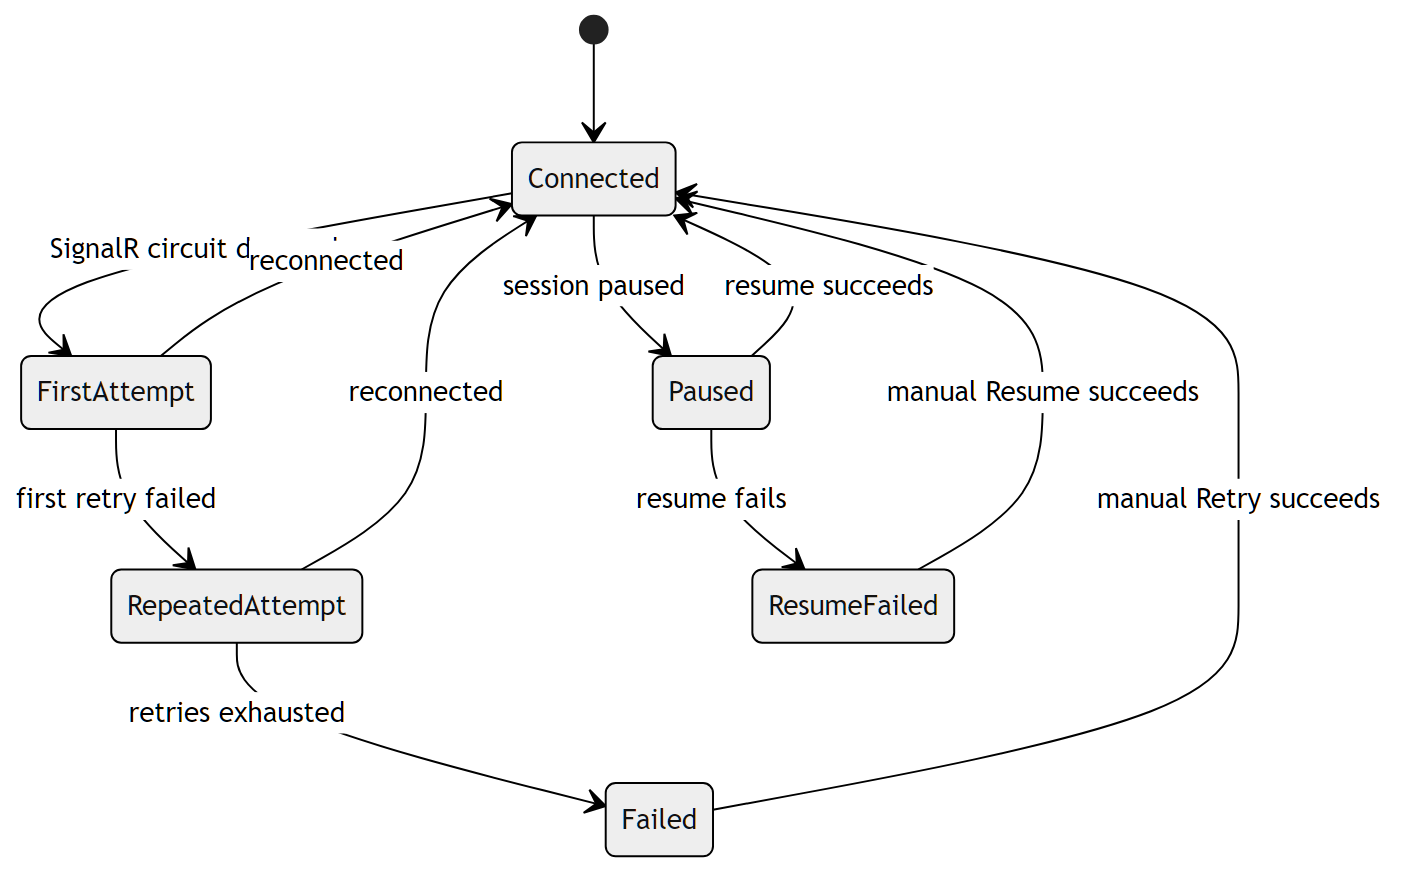
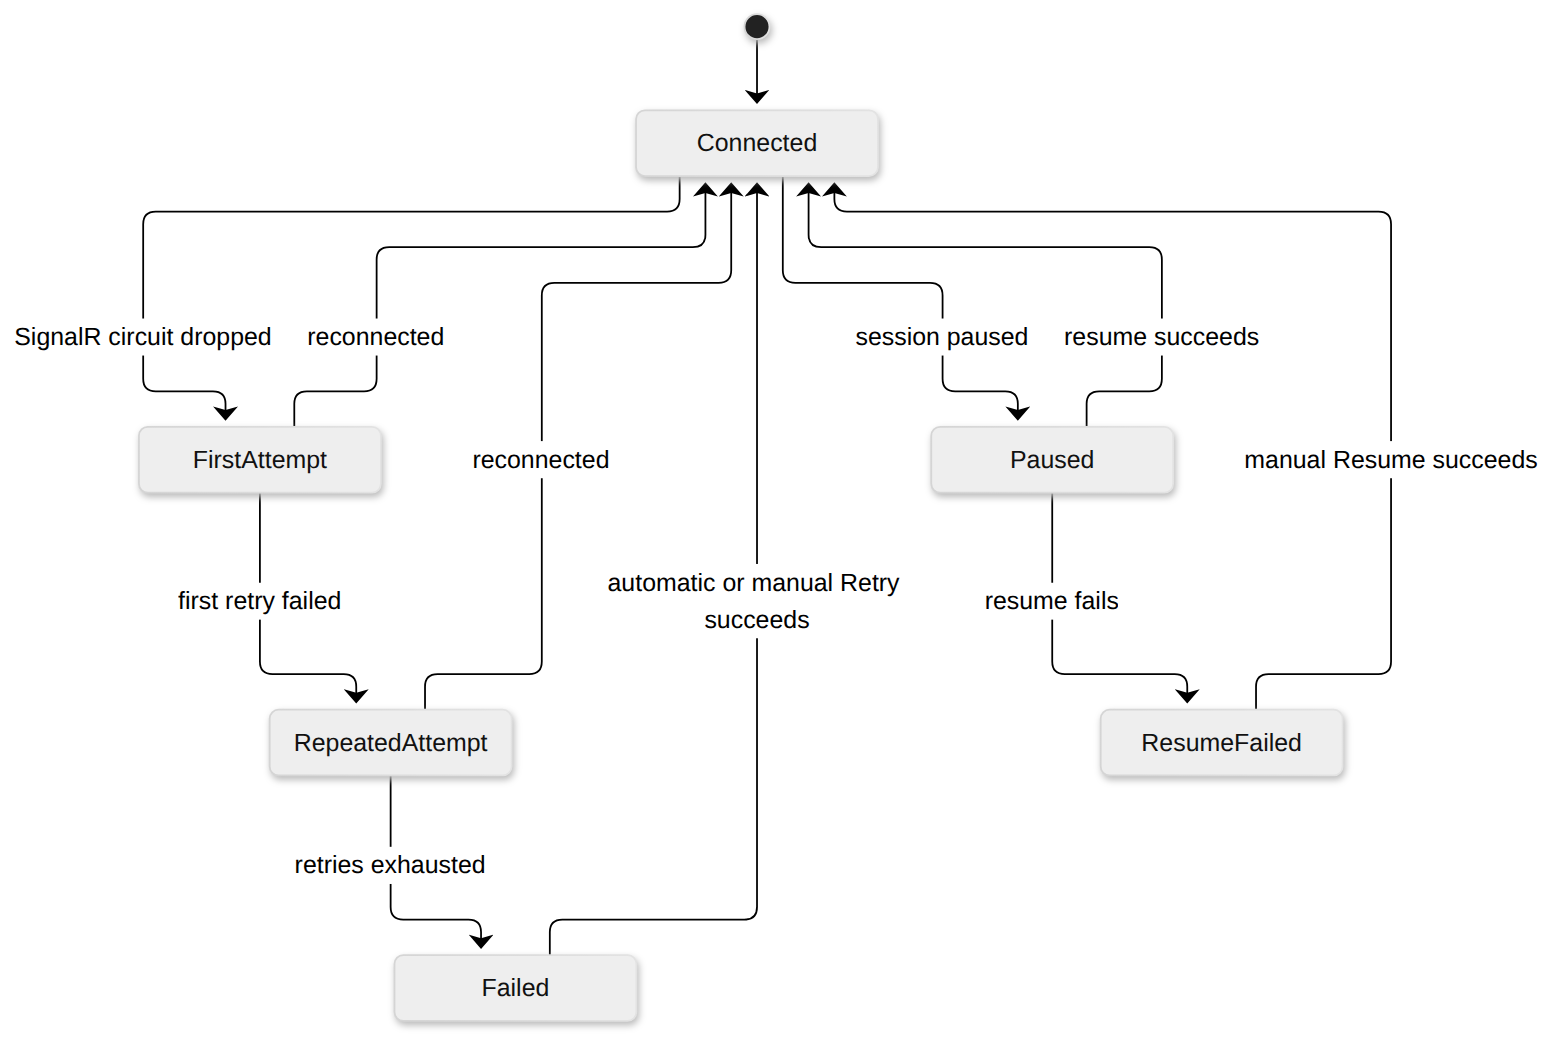
Fix automatic connection recovery and RTC asset caching (#386)
Failed or stalled dashboard startup currently leaves live updates and
controls unavailable until the user reloads. Continue recovery
automatically: reload failed startup when the authenticated panel is
ready, back off repeated failures from five seconds to one minute, and
allow pending startup one minute for direct/relay setup. After framework
reconnect attempts run out, keep retrying the existing circuit every
five seconds without overlapping manual attempts.

Load the RTC boot module through ASP.NET's fingerprinted asset URL,
matching the other application scripts. Update the connection messages,
admin handbook and reconnect diagram.

Validation:
- 51 browser startup, reconnect, restart and SDK tests pass.
- Handbook checks and `git diff --check` pass.
- Fresh sign-in on the deployed `/jack/` panel showed OB and completed
the live connection; the intermittent failure was not reproduced.
- Full .NET tests are blocked locally by missing `PluginSdk.Clustering`
types in the build dependencies.

These changes have not been deployed to the running panels.

diff --git a/Quasar/Components/Layout/ReconnectModal.razor.js b/Quasar/Components/Layout/ReconnectModal.razor.js
@@ -4,11 +4,19 @@ reconnectModal.addEventListener("components-reconnect-state-changed", handleReco
 reconnectModal.addEventListener("cancel", event => event.preventDefault());
 const connectionWarning = document.getElementById("quasar-connection-warning");
 const connectionMessage = document.getElementById("quasar-connection-warning-message");
+let reconnectState = "hide", workerRecovery, retryInFlight = false;
+let startupPending = true, startupRetryAt = Date.now() + 60000;
+const workerId = JSON.parse(document.getElementById("quasar-connection")?.textContent || "{}").workerId;
+const startupRetryKey = "quasar-startup-retries:" + document.baseURI;
+let startupRetries = 0;
+try { startupRetries = Math.max(0, Math.min(4, Number(sessionStorage.getItem(startupRetryKey)) || 0)); } catch { }
+const restartOwnsRecovery = () => !!(window.quasarRestartReloadSession && window.quasarRestartFeedback);
 const reloadPage = () => location.reload();
 document.getElementById("quasar-connection-reload").addEventListener("click", reloadPage);
 document.getElementById("components-reconnect-reload").addEventListener("click", reloadPage);
 const startupTimer = window.setTimeout(() => {
-    showConnectionWarning("Connecting is taking longer than expected. Live updates and controls are not available yet. Check your connection or reload the page to retry.");
+    showConnectionWarning("Connecting is taking longer than expected. Live updates and controls are not available yet. Quasar will retry automatically.");
+    startWorkerRecovery();
 }, 10000);
 function showConnectionWarning(message) {
     connectionMessage.textContent = message;
@@ -16,17 +24,19 @@ function showConnectionWarning(message) {
 }
 function handleConnectionState(state) {
     if (state === "connected" || state === "failed") window.clearTimeout(startupTimer);
-    if (state === "connected") connectionWarning.hidden = true;
-    else if (state === "failed") {
-        showConnectionWarning("Could not establish the live connection to Quasar. Live updates and controls are unavailable. Check your connection, then reload the page to reconnect or sign in again.");
+    if (state === "connected") {
+        startupPending = false;
+        connectionWarning.hidden = true;
+        stopWorkerRecovery();
+        try { sessionStorage.removeItem(startupRetryKey); } catch { }
+    } else if (state === "failed" && startupPending) {
+        startupRetryAt = Date.now() + Math.min(60000, 5000 * 2 ** startupRetries);
+        showConnectionWarning("Could not establish the live connection to Quasar. Live updates and controls are unavailable. Quasar will retry automatically when the server is ready.");
+        startWorkerRecovery();
     }
 }
 window.addEventListener("quasar-connection-state-changed", event => handleConnectionState(event.detail.state));
 handleConnectionState(window.quasarConnectionState);
-let reconnectState = "hide";
-const workerId = JSON.parse(document.getElementById("quasar-connection")?.textContent || "{}").workerId;
-let workerRecovery;
-const restartOwnsRecovery = () => !!(window.quasarRestartReloadSession && window.quasarRestartFeedback);
 window.addEventListener("quasar-restart-feedback-changed", () => {
     if (restartOwnsRecovery()) {
         stopWorkerRecovery();
@@ -46,6 +56,7 @@ resumeButton.addEventListener("click", resume);
 
 function handleReconnectStateChanged(event) {
     // Once the framework has a circuit, its reconnect UI owns connection warnings.
+    startupPending = false;
     window.clearTimeout(startupTimer);
     connectionWarning.hidden = true;
     reconnectState = event.detail.state;
@@ -76,11 +87,11 @@ function stopWorkerRecovery() {
 }
 
 function startWorkerRecovery() {
-    if (!workerId || workerRecovery) return;
-    const recovery = { abort: new AbortController() };
+    if (!workerId || workerRecovery || restartOwnsRecovery()) return;
+    const recovery = { abort: new AbortController(), nextRetryAt: 0 };
     workerRecovery = recovery;
-    // A replaced worker cannot restore the old circuit. Check independently of
-    // SignalR/RTC retries so a healthy hosted panel does not wait for their timeout.
+    // Probe independently of SignalR/RTC so startup can recover and a replaced
+    // worker does not leave the browser trying to restore an obsolete circuit.
     const check = async () => {
         try {
             const options = { cache: "no-store", credentials: "same-origin", redirect: "error",
@@ -91,10 +102,19 @@ function startWorkerRecovery() {
             const response = await fetch(new URL("api/version", document.baseURI), options);
             if (!response.ok) return;
             const current = await response.json();
-            if (workerRecovery === recovery && !restartOwnsRecovery()
-                && typeof current.workerId === "string" && current.workerId && current.workerId !== workerId) {
+            if (workerRecovery !== recovery || restartOwnsRecovery()
+                || typeof current.workerId !== "string" || !current.workerId) return;
+            // Blazor.start can only run once. Before hydration, recovery needs a
+            // fresh document, with backoff retained across unsuccessful reloads.
+            if (current.workerId !== workerId || startupPending && Date.now() >= startupRetryAt) {
+                if (startupPending) {
+                    try { sessionStorage.setItem(startupRetryKey, String(startupRetries + 1)); } catch { }
+                }
                 stopWorkerRecovery();
                 location.reload();
+            } else if (!startupPending && reconnectState === "failed" && Date.now() >= recovery.nextRetryAt) {
+                recovery.nextRetryAt = Date.now() + 5000;
+                await retry();
             }
         } catch {
             // Outages, sign-in redirects and gateway error pages are not readiness.
@@ -107,7 +127,8 @@ function startWorkerRecovery() {
 
 async function retry() {
     document.removeEventListener("visibilitychange", retryWhenDocumentBecomesVisible);
-    if (restartOwnsRecovery()) return;
+    if (restartOwnsRecovery() || retryInFlight) return;
+    retryInFlight = true;
 
     try {
         // Reconnect will asynchronously return:
@@ -134,6 +155,8 @@ async function retry() {
         if (restartOwnsRecovery()) return;
         // We got an exception, server is currently unavailable
         document.addEventListener("visibilitychange", retryWhenDocumentBecomesVisible);
+    } finally {
+        retryInFlight = false;
     }
 }
 

diff --git a/skills/quasar-book/Troubleshooting.md b/skills/quasar-book/Troubleshooting.md
@@ -211,9 +211,17 @@ UI plugins also need a .NET 10 SDK; see [UI plugins](UiPlugins.md#net-10-sdk).
 **Quasar connection unavailable** means the browser could not finish connecting.
 The same warning appears after ten seconds if startup is still pending. Until
 the connection succeeds, live updates and controls are unavailable, even if the
-page already displays server data. Check your network connection, then click
-**Reload page** to retry or sign in again. This button works even when the page
-never becomes interactive. A successful connection clears the warning.
+page already displays server data. Quasar retries automatically once the panel
+is ready and your login is valid. Failed startup waits five seconds before
+reloading; repeated failures back off to a maximum of one minute. Pending startup
+gets a full minute to allow peer setup to finish. Successful startup clears the
+warning and backoff. **Reload page** remains available even when the page never
+becomes interactive. If your login expired, reload to sign in again.
+
+Quasar uses fingerprinted script URLs for connection startup. On older releases,
+try **Ctrl+F5** if a normal reload keeps using stale connection scripts after an
+update. A hard refresh fixing the problem points to cached assets; it does not
+prove the server or network was unavailable.
 
 If an established connection drops, **Quasar connection interrupted** warns that
 displayed data may be out of date. The dialog shows reconnect progress and always
@@ -221,7 +229,13 @@ offers **Reload page**. Hosted WebRTC and ordinary socket connections use the
 same warnings. A silent connection stall is reported after the framework detects
 it, so the warning may not appear immediately when traffic stops.
 
-The UI keeps a live connection to Quasar. When it drops, a dialog shows "Rejoining the server...", then "Rejoin failed... trying again in N seconds.", then "Failed to rejoin. Please retry or reload the page." with **Retry**. During the disconnect, the page checks readiness and worker identity through the same address, including a Nebula panel prefix. When a replacement Quasar process is ready, the page reloads automatically instead of waiting for all circuit retries to fail. A temporary network interruption to the same process keeps normal reconnection behavior. A restart started from this browser shows its own progress panel (request, stop, health check, reload) instead of the dialog. If it never reconnects, reload the page and check that Quasar is still up.
+After the framework runs out of reconnect attempts, Quasar keeps retrying the
+existing circuit every five seconds while the panel is ready and your login is
+valid. Manual and automatic attempts do not overlap. If the server can no longer
+restore the circuit, the page reloads automatically. Paused sessions still wait
+for **Resume**, and an active restart uses its own progress panel.
+
+The UI keeps a live connection to Quasar. When it drops, a dialog shows "Rejoining the server...", then "Rejoin failed... trying again in N seconds.", then "Still trying to rejoin. Quasar will retry automatically when the server is ready." with **Retry**. During the disconnect, the page checks readiness and worker identity through the same address, including a Nebula panel prefix. When a replacement Quasar process is ready, the page reloads automatically instead of waiting for all circuit retries to fail. A temporary network interruption to the same process keeps normal reconnection behavior. A restart started from this browser shows its own progress panel (request, stop, health check, reload) instead of the dialog. If it never reconnects, reload the page and check that Quasar is still up.
 
 ## Sign-in problems
 
@@ -307,6 +321,7 @@ Each server's agent connects to the Quasar that launched it, because that Quasar
 - `Quasar/Components/Pages/ServerConsoleDialog.razor`
 - `Quasar/Components/Pages/ServerEditorDialog.razor`
 - `Quasar/Components/Dashboard/ServerCard.razor`
+- `Quasar/Components/App.razor`
 - `Quasar/Components/Layout/ReconnectModal.razor`
 - `Quasar/Components/Layout/ReconnectModal.razor.js`
 - `Quasar/Components/Layout/ReconnectModal.razor.css`

diff --git a/Docs/StateMachines/BlazorReconnect.md b/Docs/StateMachines/BlazorReconnect.md
@@ -15,6 +15,15 @@ module loading failures as well as WebRTC or socket startup. A successful startu
 clears the warning. **Reload page** works entirely in the browser, even when
 Blazor never becomes interactive.
 
+Startup recovery probes readiness and the protected version endpoint. Once both
+succeed, failed startup reloads automatically after five seconds. Consecutive
+failures back off to ten, twenty, forty and sixty seconds, retained per panel in
+this tab's session storage. Successful hydration clears the backoff. Pending
+startup gets sixty seconds before recovery reloads so normal direct and relay
+ICE setup can finish. Gateway errors and expired login responses do not trigger
+automatic reloads. Reloading starts a fresh document because `Blazor.start` can
+only run once per document.
+
 After a circuit disconnects, the reconnect dialog explicitly warns that live
 updates and controls are unavailable and displayed data may be out of date.
 It retains the framework's retry countdown and offers **Reload page** in every
@@ -37,7 +46,7 @@ stateDiagram-v2
     FirstAttempt --> RepeatedAttempt: first retry failed
     RepeatedAttempt --> Connected: reconnected
     RepeatedAttempt --> Failed: retries exhausted
-    Failed --> Connected: manual Retry succeeds
+    Failed --> Connected: automatic or manual Retry succeeds
     Connected --> Paused: session paused
     Paused --> Connected: resume succeeds
     Paused --> ResumeFailed: resume fails
@@ -51,7 +60,7 @@ stateDiagram-v2
 | `Connected` | Circuit healthy; the modal is hidden. |
 | `FirstAttempt` | Circuit dropped; the dialog warns that data may be stale while reconnecting. |
 | `RepeatedAttempt` | First retry failed; a countdown is shown. |
-| `Failed` | Retries exhausted; a **Retry** button is shown. |
+| `Failed` | Framework retries exhausted; Quasar retries every five seconds while the authenticated panel is ready. **Retry** remains available. |
 | `Paused` | Server session paused; awaiting resume. |
 | `ResumeFailed` | Resume failed; a **Resume** button is shown. |
 
@@ -71,6 +80,9 @@ started in another browser, without waiting for the framework's retry timeout.
 
 A transient disconnect to the same worker does not reload the page. Readiness
 failures, sign-in redirects and gateway error pages keep recovery pending.
+After framework retries exhaust, the same recovery probe also retries the
+existing circuit every five seconds. Manual and automatic retries never run
+concurrently. A rejected circuit attempts resume, then reloads if it cannot resume.
 Framework retry-countdown events keep these probes running, including between
 connection attempts; they must not cancel worker replacement detection.
 Reconnection, a paused session or the planned-restart progress panel cancels the

diff --git a/Docs/QuasarWebRtcFramework.md b/Docs/QuasarWebRtcFramework.md
@@ -38,8 +38,10 @@ Already committed actions cannot be undone; the adapter never replays clicks.
 ## Browser integration and compatibility
 
 The root app disables automatic framework startup and loads the Quasar-owned
-boot module. Verified Nebula-hosted pages automatically choose the adapter with
-no separate user toggle. Local pages use normal Blazor startup without a Nebula
+boot module through ASP.NET's fingerprinted asset URL. The page's import map
+selects its dependencies, so normal page loads use the current build's module
+URLs without requiring a hard refresh. Verified Nebula-hosted pages automatically
+choose the adapter with no separate user toggle. Local pages use normal Blazor startup without a Nebula
 or peer dependency. Framework negotiation and document/module loads still use
 HTTPS; interactive events, render batches, JS interop and circuit file uploads
 use the peer. The public SignalR HttpClient hook waits for peer/ICE setup before
@@ -51,7 +53,14 @@ Startup failures show a client-side **Quasar connection unavailable** warning.
 If startup is still pending after ten seconds, the warning explains that live
 updates and controls are not available yet. Boot catches failed circuit-module
 loads as well as failed session/peer setup. Successful startup clears the warning.
+Failed startup automatically reloads once the panel is ready and the current
+login is valid. Repeated failures back off from five seconds to one minute,
+remembered per panel in this tab until startup succeeds. Pending startup gets a
+full minute before recovery reloads, allowing direct and relay ICE setup to finish.
 The reconnect dialog warns about stale data after an established connection drops.
+After the framework exhausts its retries, Quasar continues retrying the existing
+circuit every five seconds while the authenticated panel is ready. Concurrent
+manual and automatic attempts are coalesced. A rejected circuit reloads normally.
 Both warnings offer **Reload page** without requiring a working circuit. See
 [connection recovery](StateMachines/BlazorReconnect.md) for detection limits and
 worker replacement handling.
